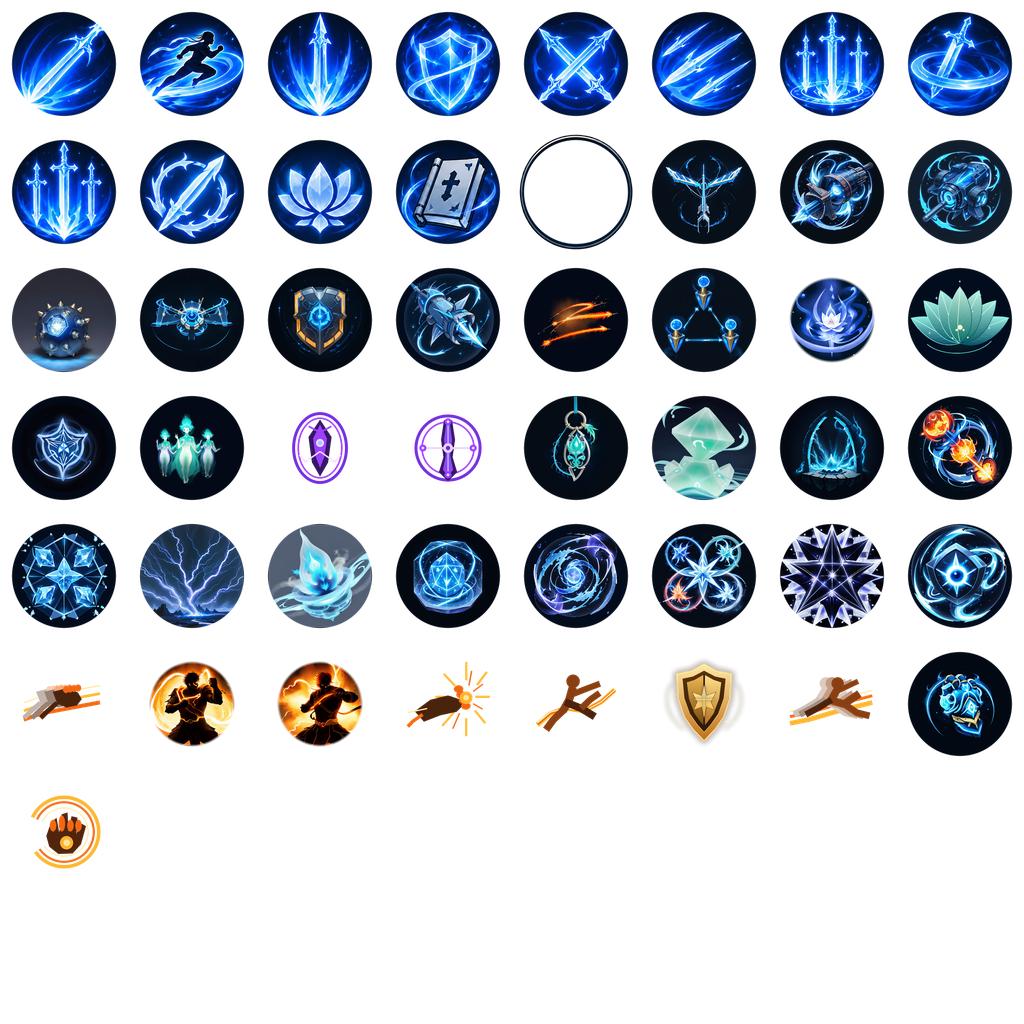
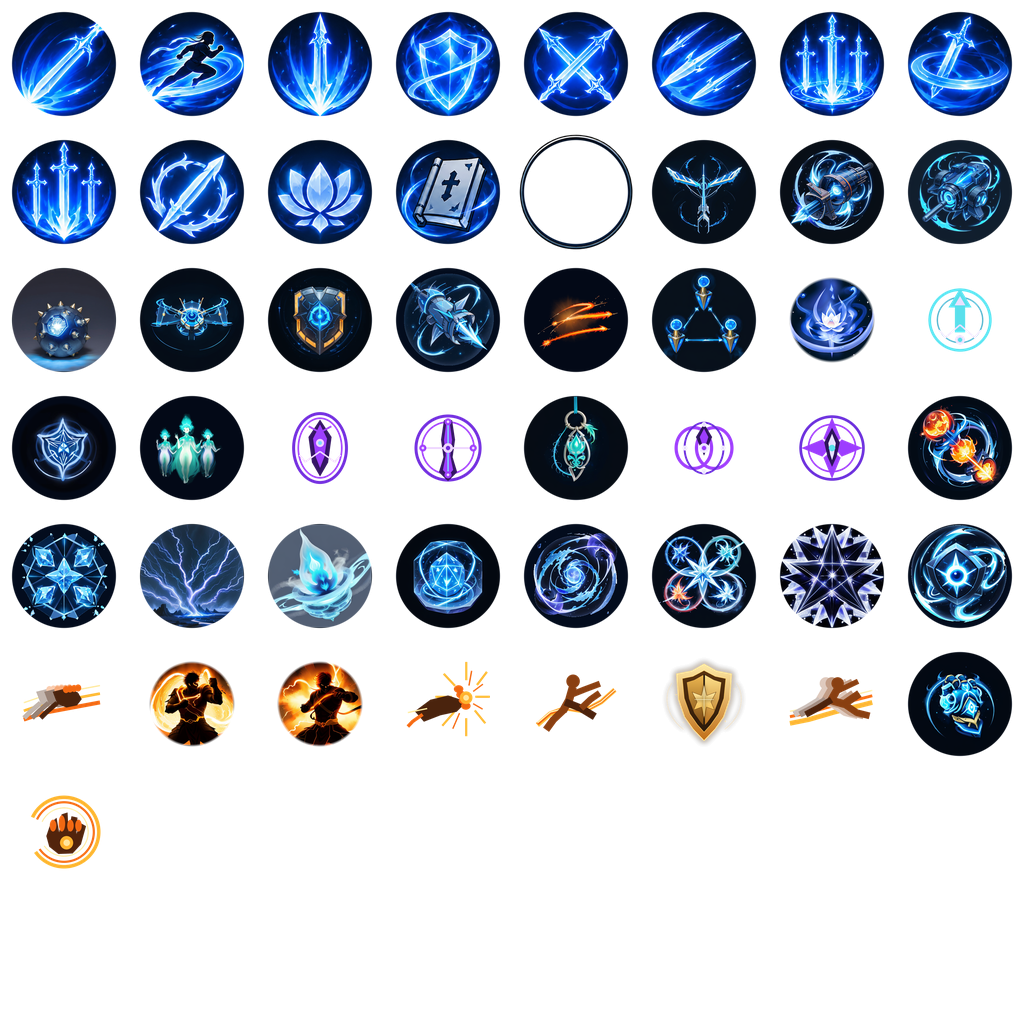
chore: lgo autopilot checkpoint character-hub-v50 - character-hub-fireline-cleanse-paint-v45
Status: CONTINUE
Phase: character-hub-skill-art
Next action: Đối chiếu Bộ Pháp/Đột Kích/Quyền Ý với đúng vùng demo Võ và thay hình tác động sai; không alias gameplay/gamma hoặc dùng output bị loại.
Reason: Hai artwork mới đã kiểm nguồn và Player; frame/content/actor giữ nguyên. Toàn mỹ thuật chưa hoàn tất.

Validation:
- Graphics EditMode315/315 không fail/skip
- Python88/88=79repo+9source
- Một build {'errors': 0, 'warnings': 0}; hai selection passes;264PNG,10ảnh đã xem
- Hai module thay;47module/frame/library/actor nguyên
- Native RGBA và portable PNG replay exact; source ZIP integrity

Changed region(s): [[0.625, 0.375, 0.875, 0.5], [0.875, 0.25, 1.0, 0.375]]

diff --git a/docs/execution/PROJECT-STATE.md b/docs/execution/PROJECT-STATE.md
@@ -1,3 +1,10 @@
+## Character Hub v50 — Linh support/link/domain motifs — 2026-09-17
+
+- Hồi Phục/Cộng Hưởng/Linh Giới redraw native transparent theo visual-only references Hồi Linh/Hồn Liên Kết/Linh Vực; không đổi runtime ID/tên/cấp/gameplay.
+- Shared frame/content split giữ nguyên. Exactly3 module đổi,46 module+frame giữ pixel; actor/renderer không đổi.
+- Fresh gate: packer13/13, Unity EditMode315/315. Một Player build đã có0error0warning;396frame=3skill×3viewport×44, eye-review đủ9 trạng thái.
+- V50 chưa phải nghiệm thu toàn mỹ thuật. Tiếp theo audit Võ Kình Lực và các Linh còn object-vs-action drift có mapping trực tiếp.
+
 ## Character Hub v49 — Linh seal/bind motifs — 2026-09-17
 
 - Linh Phù/Trói Hồn đổi từ generic object glyph sang native purple seal/binding motifs theo Ấn Linh/Linh Trói visual reference; gameplay không đổi.

diff --git a/docs/execution/NEXT-ACTION.md b/docs/execution/NEXT-ACTION.md
@@ -1,3 +1,10 @@
+# NEXT ACTION — Character Hub / v50 onward
+
+1. Audit Võ `Kình Lực` against direct Võ demo motif; replace only with evidenced action/energy artwork, not object/generic emblem.
+2. Audit Linh `Hộ Mệnh` and other remaining Linh icons for direct Hộ/Linh Vực/support mappings; do not infer gameplay aliases.
+3. Keep Hỏa Tuyến/Thanh Tẩy unchanged unless a concrete 64/128px defect is found; current motifs remain readable.
+4. Keep shared frame/content separation, exact ownership and actor. Build/capture only when runtime art changes.
+
 # NEXT ACTION — Character Hub / Skill art theo demo
 
 ## Active — sau v49 Linh Phù/Trói Hồn
